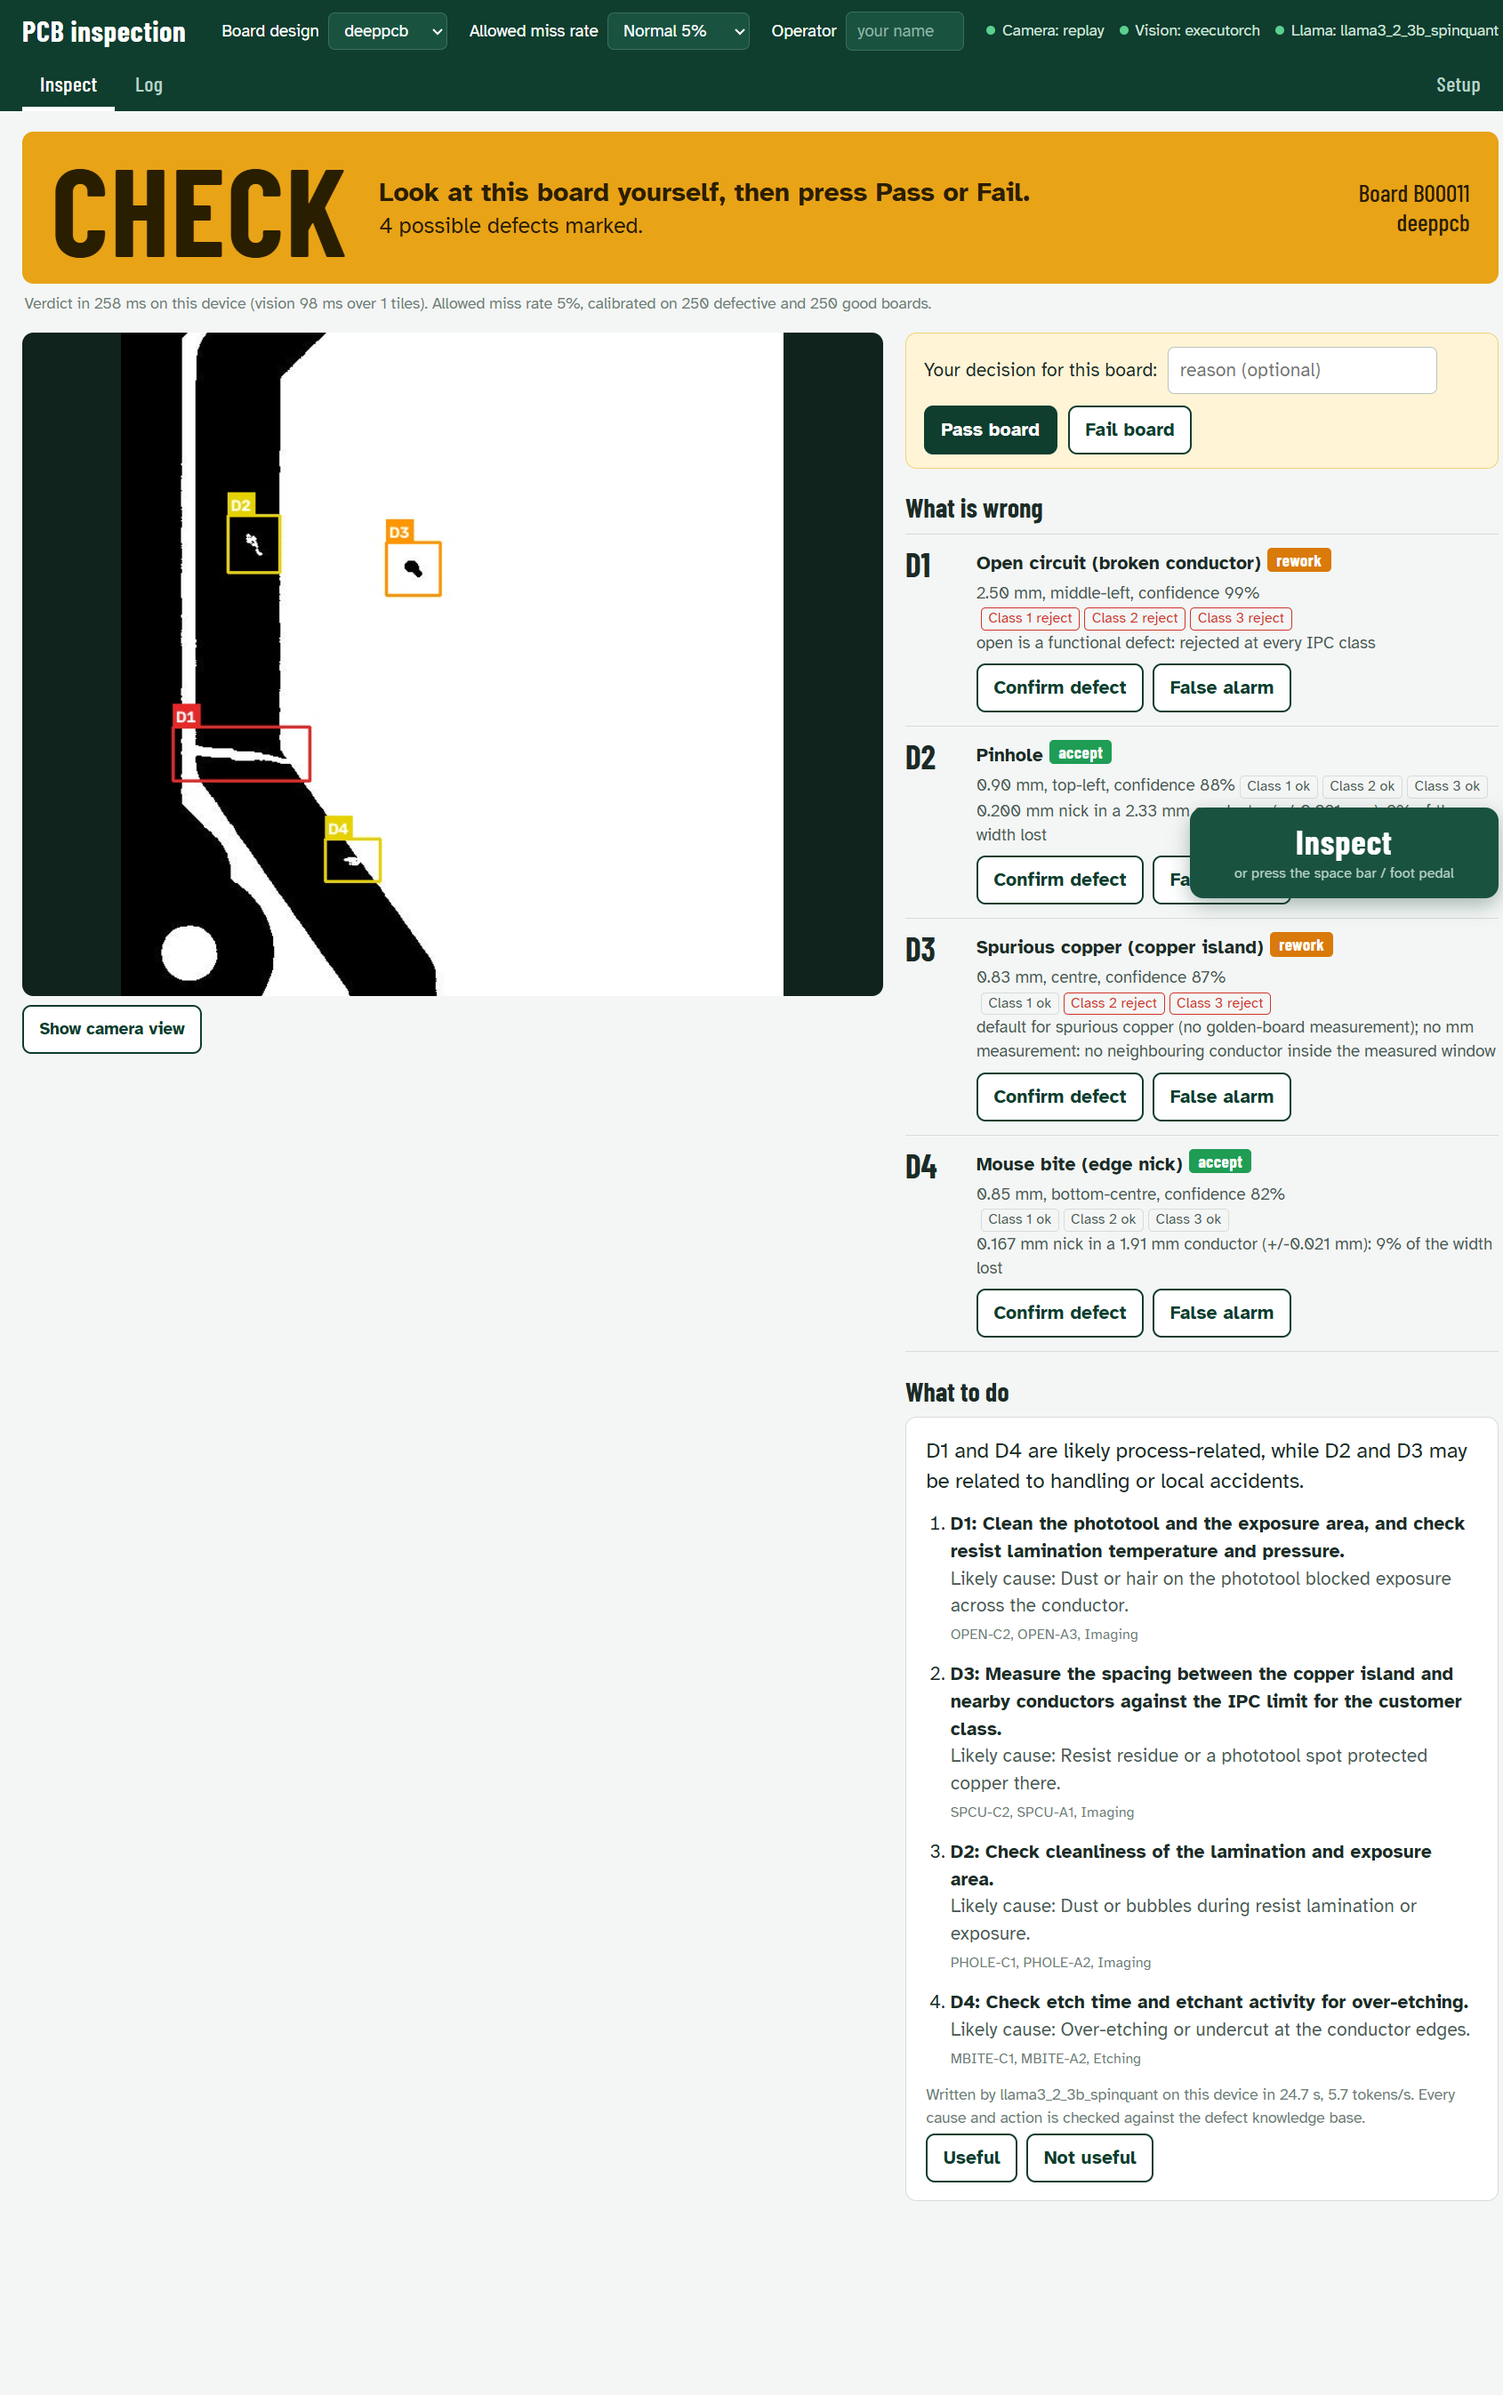
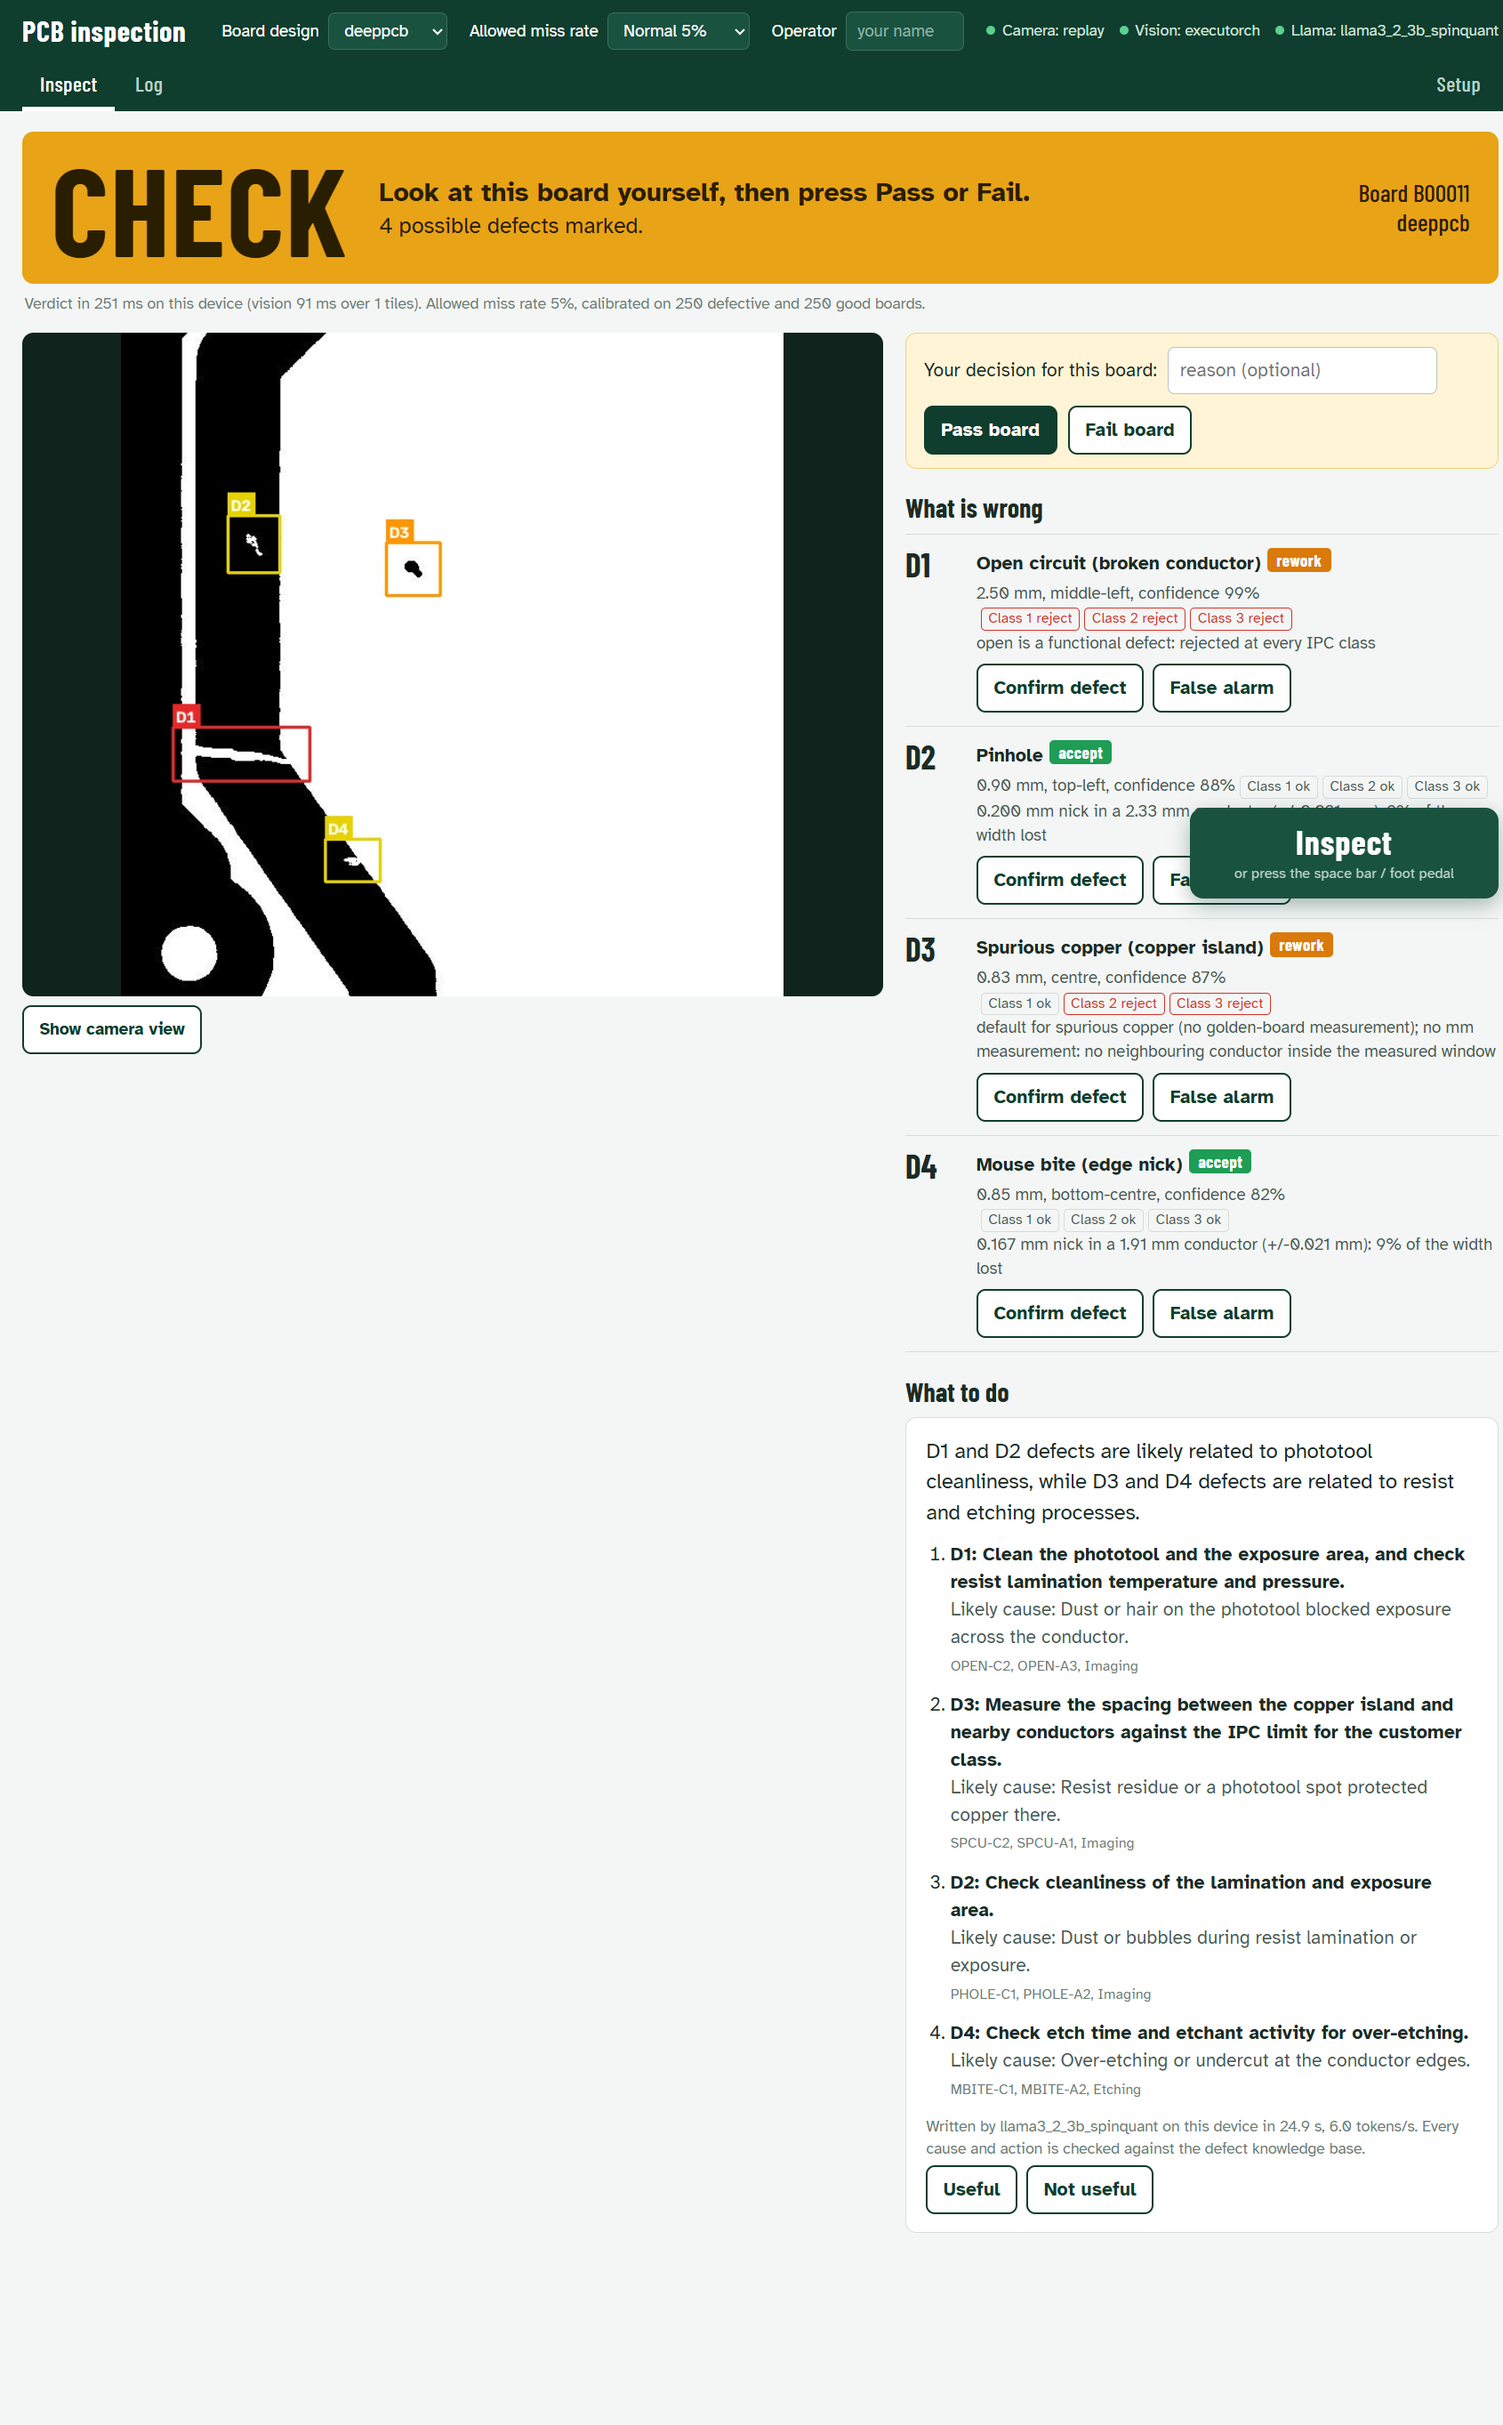
Log rows reopen the board; report section on the operator's screen with screenshots, a real advice example and its log rows

diff --git a/pcbinspect/static/index.html b/pcbinspect/static/index.html
@@ -181,6 +181,8 @@ textarea { font: inherit; border: 1px solid #AFC0B9; border-radius: 8px; padding
   .inspect-dock { left: 12px; right: 12px; bottom: 12px; }
   #inspect { width: 100%; }
 }
+  tr.open-row { cursor: pointer; }
+  tr.open-row:hover, tr.open-row:focus-visible { background: rgba(0, 0, 0, 0.05); outline: none; }
 </style>
 </head>
 <body>
@@ -779,8 +781,21 @@ $("#rule-list").addEventListener("click", async (ev) => {
 
 async function loadLog() {
   await loadState();
-  $("#log-body").innerHTML = state.recent.map((r) => `<tr><td>${r.id}</td><td>${new Date(r.ts * 1000).toLocaleString()}</td><td>${esc(r.board_id)}</td><td>${esc(r.design)}</td><td class="v-${r.verdict}">${r.verdict === "REVIEW" ? "CHECK" : r.verdict}</td><td>${r.final_verdict ? `${r.final_verdict === "PASS" ? "passed" : "failed"}${r.decided_by ? ` by ${esc(r.decided_by)}` : ""}${r.decision_reason ? `: ${esc(r.decision_reason)}` : ""}` : ""}</td></tr>`).join("");
+  $("#log-body").innerHTML = state.recent.map((r) => `<tr class="open-row" tabindex="0" data-id="${r.id}" title="Open this board"><td>${r.id}</td><td>${new Date(r.ts * 1000).toLocaleString()}</td><td>${esc(r.board_id)}</td><td>${esc(r.design)}</td><td class="v-${r.verdict}">${r.verdict === "REVIEW" ? "CHECK" : r.verdict}</td><td>${r.final_verdict ? `${r.final_verdict === "PASS" ? "passed" : "failed"}${r.decided_by ? ` by ${esc(r.decided_by)}` : ""}${r.decision_reason ? `: ${esc(r.decision_reason)}` : ""}` : ""}</td></tr>`).join("");
 }
+
+// a row in the log reopens that board on the Inspect screen (picture, findings, advice, decision)
+async function openLogged(id) {
+  const r = await api(`/api/inspection/${id}`).catch((e) => { toast(e.message); return null; });
+  if (!r) return;
+  document.querySelector('[data-tab="inspect"]').click();
+  current = r; showInspection(r, false);
+}
+$("#log-body").addEventListener("click", (e) => { const tr = e.target.closest("tr[data-id]"); if (tr) openLogged(tr.dataset.id); });
+$("#log-body").addEventListener("keydown", (e) => {
+  const tr = e.target.closest("tr[data-id]");
+  if (tr && (e.key === "Enter" || e.key === " ")) { e.preventDefault(); openLogged(tr.dataset.id); }
+});
 
 loadState().catch((e) => toast(`Station not reachable: ${e.message}`));
 setInterval(() => loadState().catch(() => {}), 15000);

diff --git a/docs/TECHNICAL_REPORT.md b/docs/TECHNICAL_REPORT.md
@@ -406,9 +406,33 @@ What is known today is from an x86 development host and is labelled as such wher
 
 **Before the Pi was available,** the same aarch64 wheels and `.pte` files ran in an arm64 Debian container under emulation (`deploy/Dockerfile.pi`). That proved the Arm build works. Speed numbers come only from the real board.
 
-## 8. Logging and traceability
+## 8. The operator's screen and the log
 
-SQLite in WAL mode holds inspections, defects with their measurements and IPC results, operator decisions, every piece of advice (model, grounding result, rejection reason, speed), feedback events (undoable), model versions, eye-test results, customer rules and drift alerts. Images are stored by content hash. Each inspection and its defects are written in one transaction *before* the stack light changes, so a power cut cannot lose a verdict an operator has seen. CSV export is one click.
+The dashboard is a web page served by the Pi; a phone or laptop on the Pi's own hotspot opens it, with no internet. The operator sees three things, in this order: the verdict, what is wrong, and what to do.
+
+![A board the station is not sure about: CHECK, four findings, Llama's advice](img/dashboard_check.png)
+
+*Captured from the station running from the Pi bundle (`deploy/make_bundle.py`) with its own models on a held-out DeepPCB board, in replay mode on a laptop. The verdict took 251 ms; the advice, written afterwards by Llama 3.2 3B on ExecuTorch, took 24.9 s on the laptop's CPU (Pi timings are measured separately, section 7).*
+
+- **The verdict** fills the top of the screen: PASS (green), FAIL (red) or CHECK (amber, "look at this board yourself, then press Pass or Fail"), with the board number, and the same colour on the stack light. The line under it says how long the verdict took and what the thresholds were calibrated on.
+- **What is wrong**: one card per finding with its name, size in millimetres, place on the board, confidence, the result for IPC Class 1, 2 and 3, and the measurement behind it ("0.167 mm nick in a 1.91 mm conductor: 9% of the width lost"). Confirm defect and False alarm feed the learning loop (section 9).
+- **What to do**: Llama's summary, then for each defect the action and likely cause in the knowledge base's own words, with their IDs and the process step. The footer says who wrote it and how long it took, or that Llama's answer was refused and why. The operator can mark the advice useful or not.
+- **Deciding a CHECK board**: Pass board or Fail board, with an optional reason; the operator's name (top bar) is required and stored with the decision.
+
+![A good board: PASS](img/dashboard_pass.png)
+
+**The log.** Every inspection is written to SQLite (WAL mode) in one transaction *before* the stack light changes, so a power cut cannot lose a verdict an operator has seen. It holds the defects with their measurements and IPC results, operator decisions with name and reason, every piece of advice (model, grounding result, rejection reason, speed), feedback events (undoable), model versions, eye-test results, customer rules and drift alerts. Images are stored by content hash. The Log tab lists recent boards; clicking one reopens it with its picture, findings and advice.
+
+![The Log tab](img/dashboard_log.png)
+
+**The log entry Llama writes.** "Download all as CSV" gives one row per defect, and each row carries Llama's summary for that board and who wrote it. The rows for the board above:
+
+| Board | Verdict | Defect | Type | Severity | Size (mm) | Place | Log note | Note by |
+|---|---|---|---|---|---|---|---|---|
+| B00011 | CHECK | D1 | open | critical | 2.50 | middle-left | D1 and D2 defects are likely related to phototool cleanliness, while D3 and D4 defects are related to resist and etching processes. | llama-executorch |
+| B00011 | CHECK | D2 | pin hole | minor | 0.90 | top-left | (same note) | llama-executorch |
+
+When the summary was refused (section 6), the note is the knowledge base's standard sentence and "note by" says so.
 
 ## 9. Learning during use, safely
 
